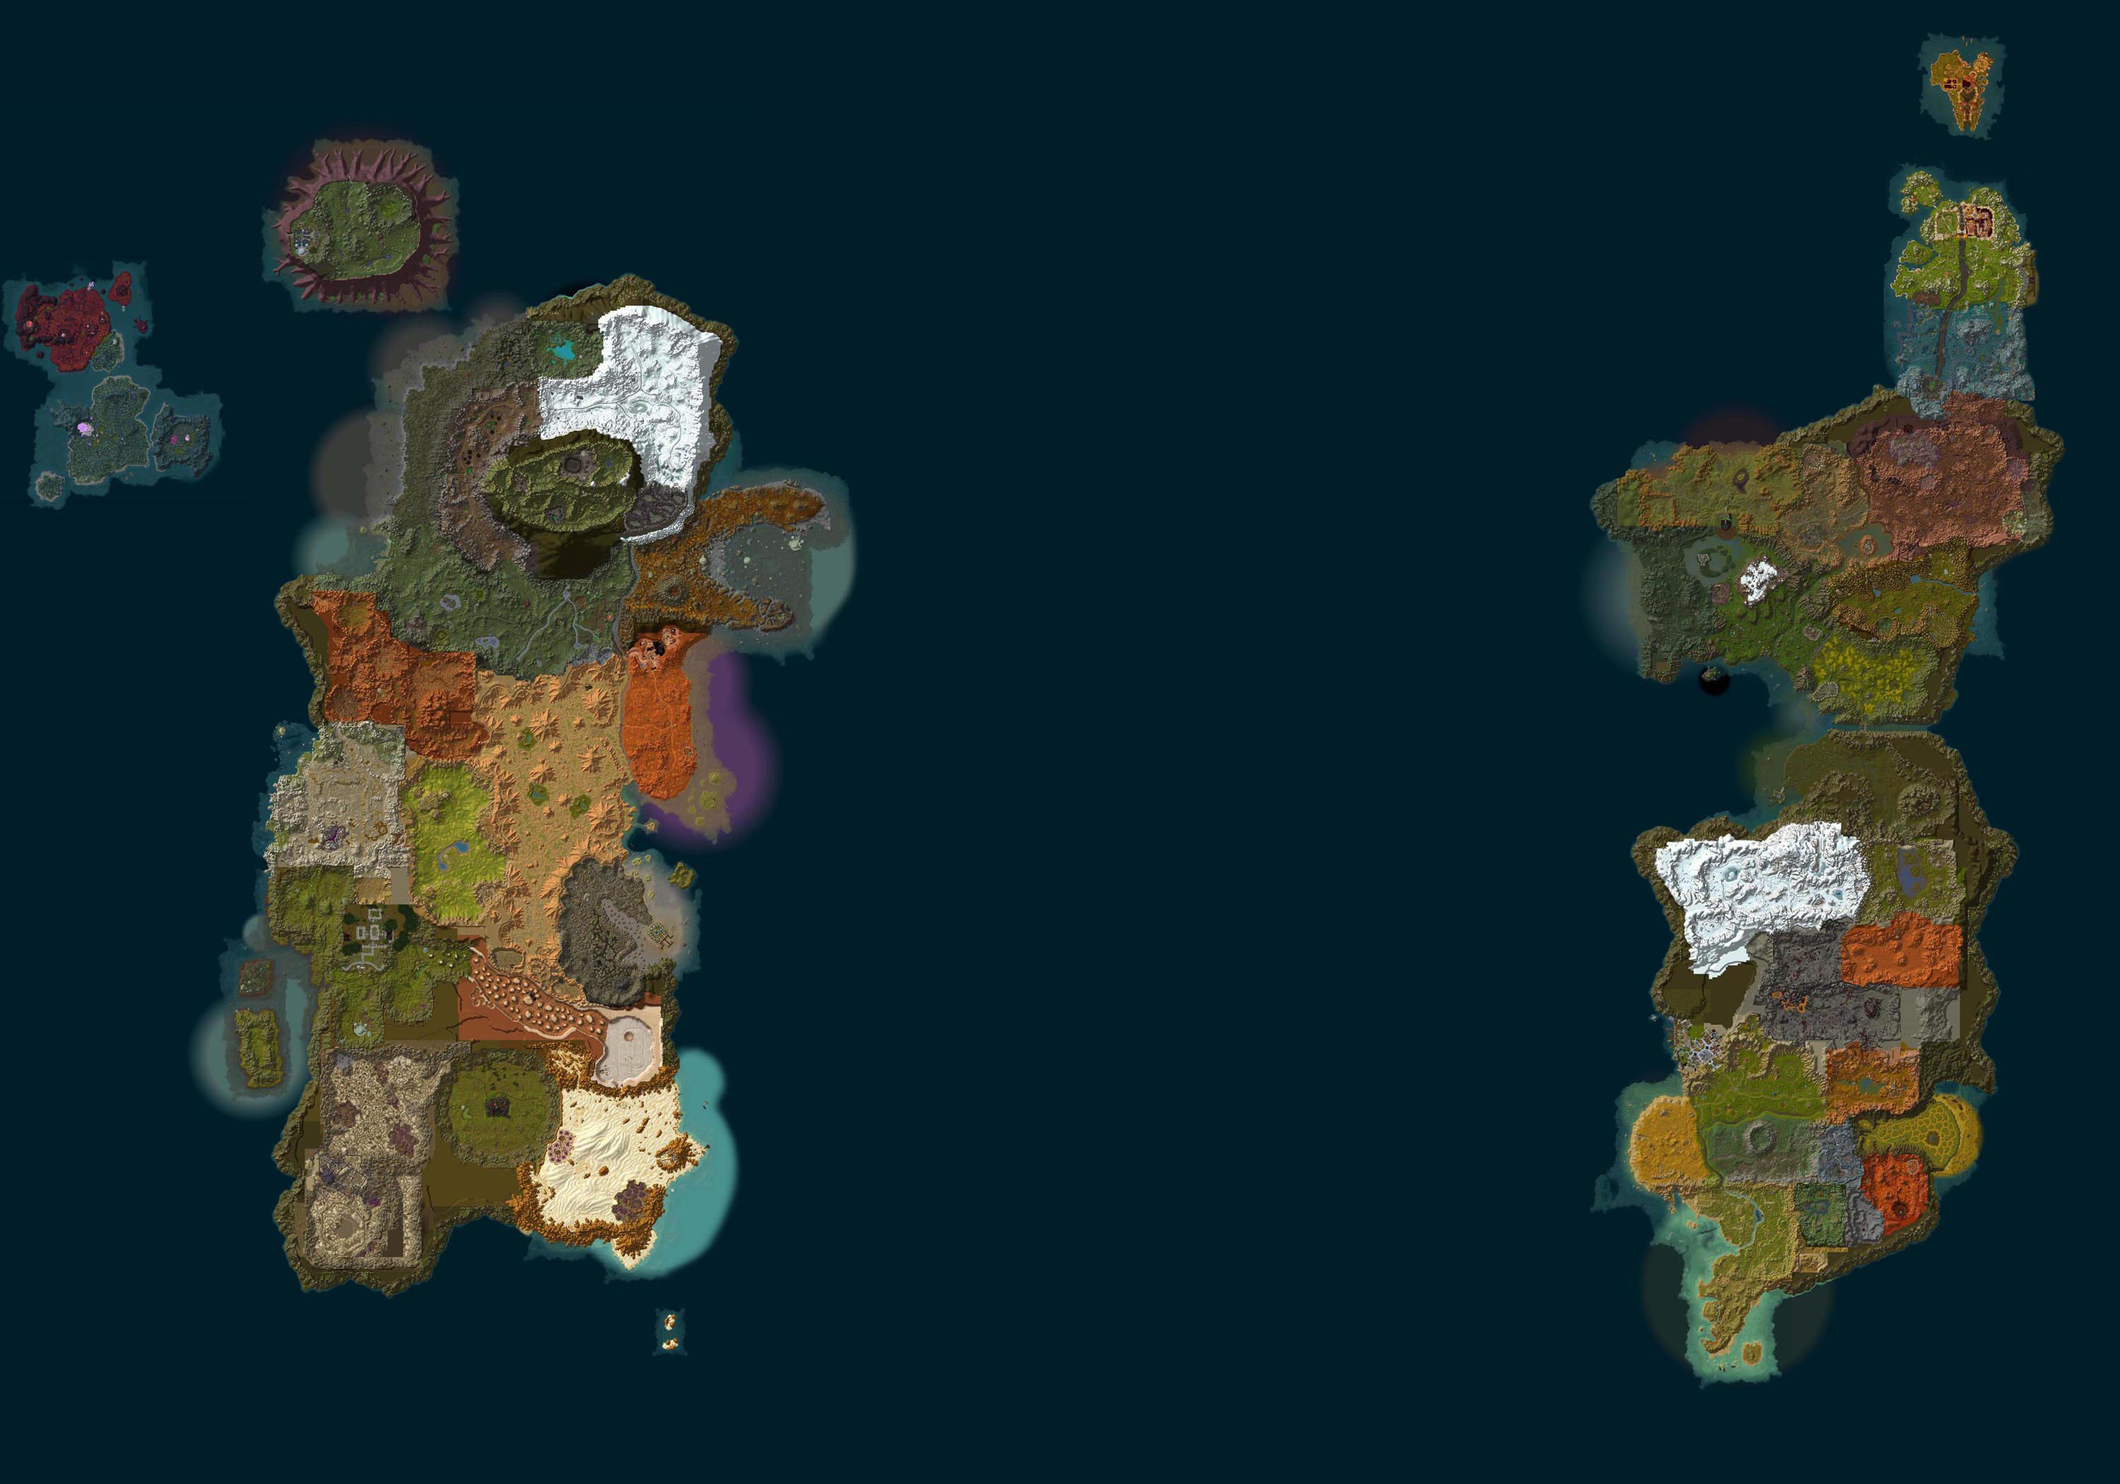
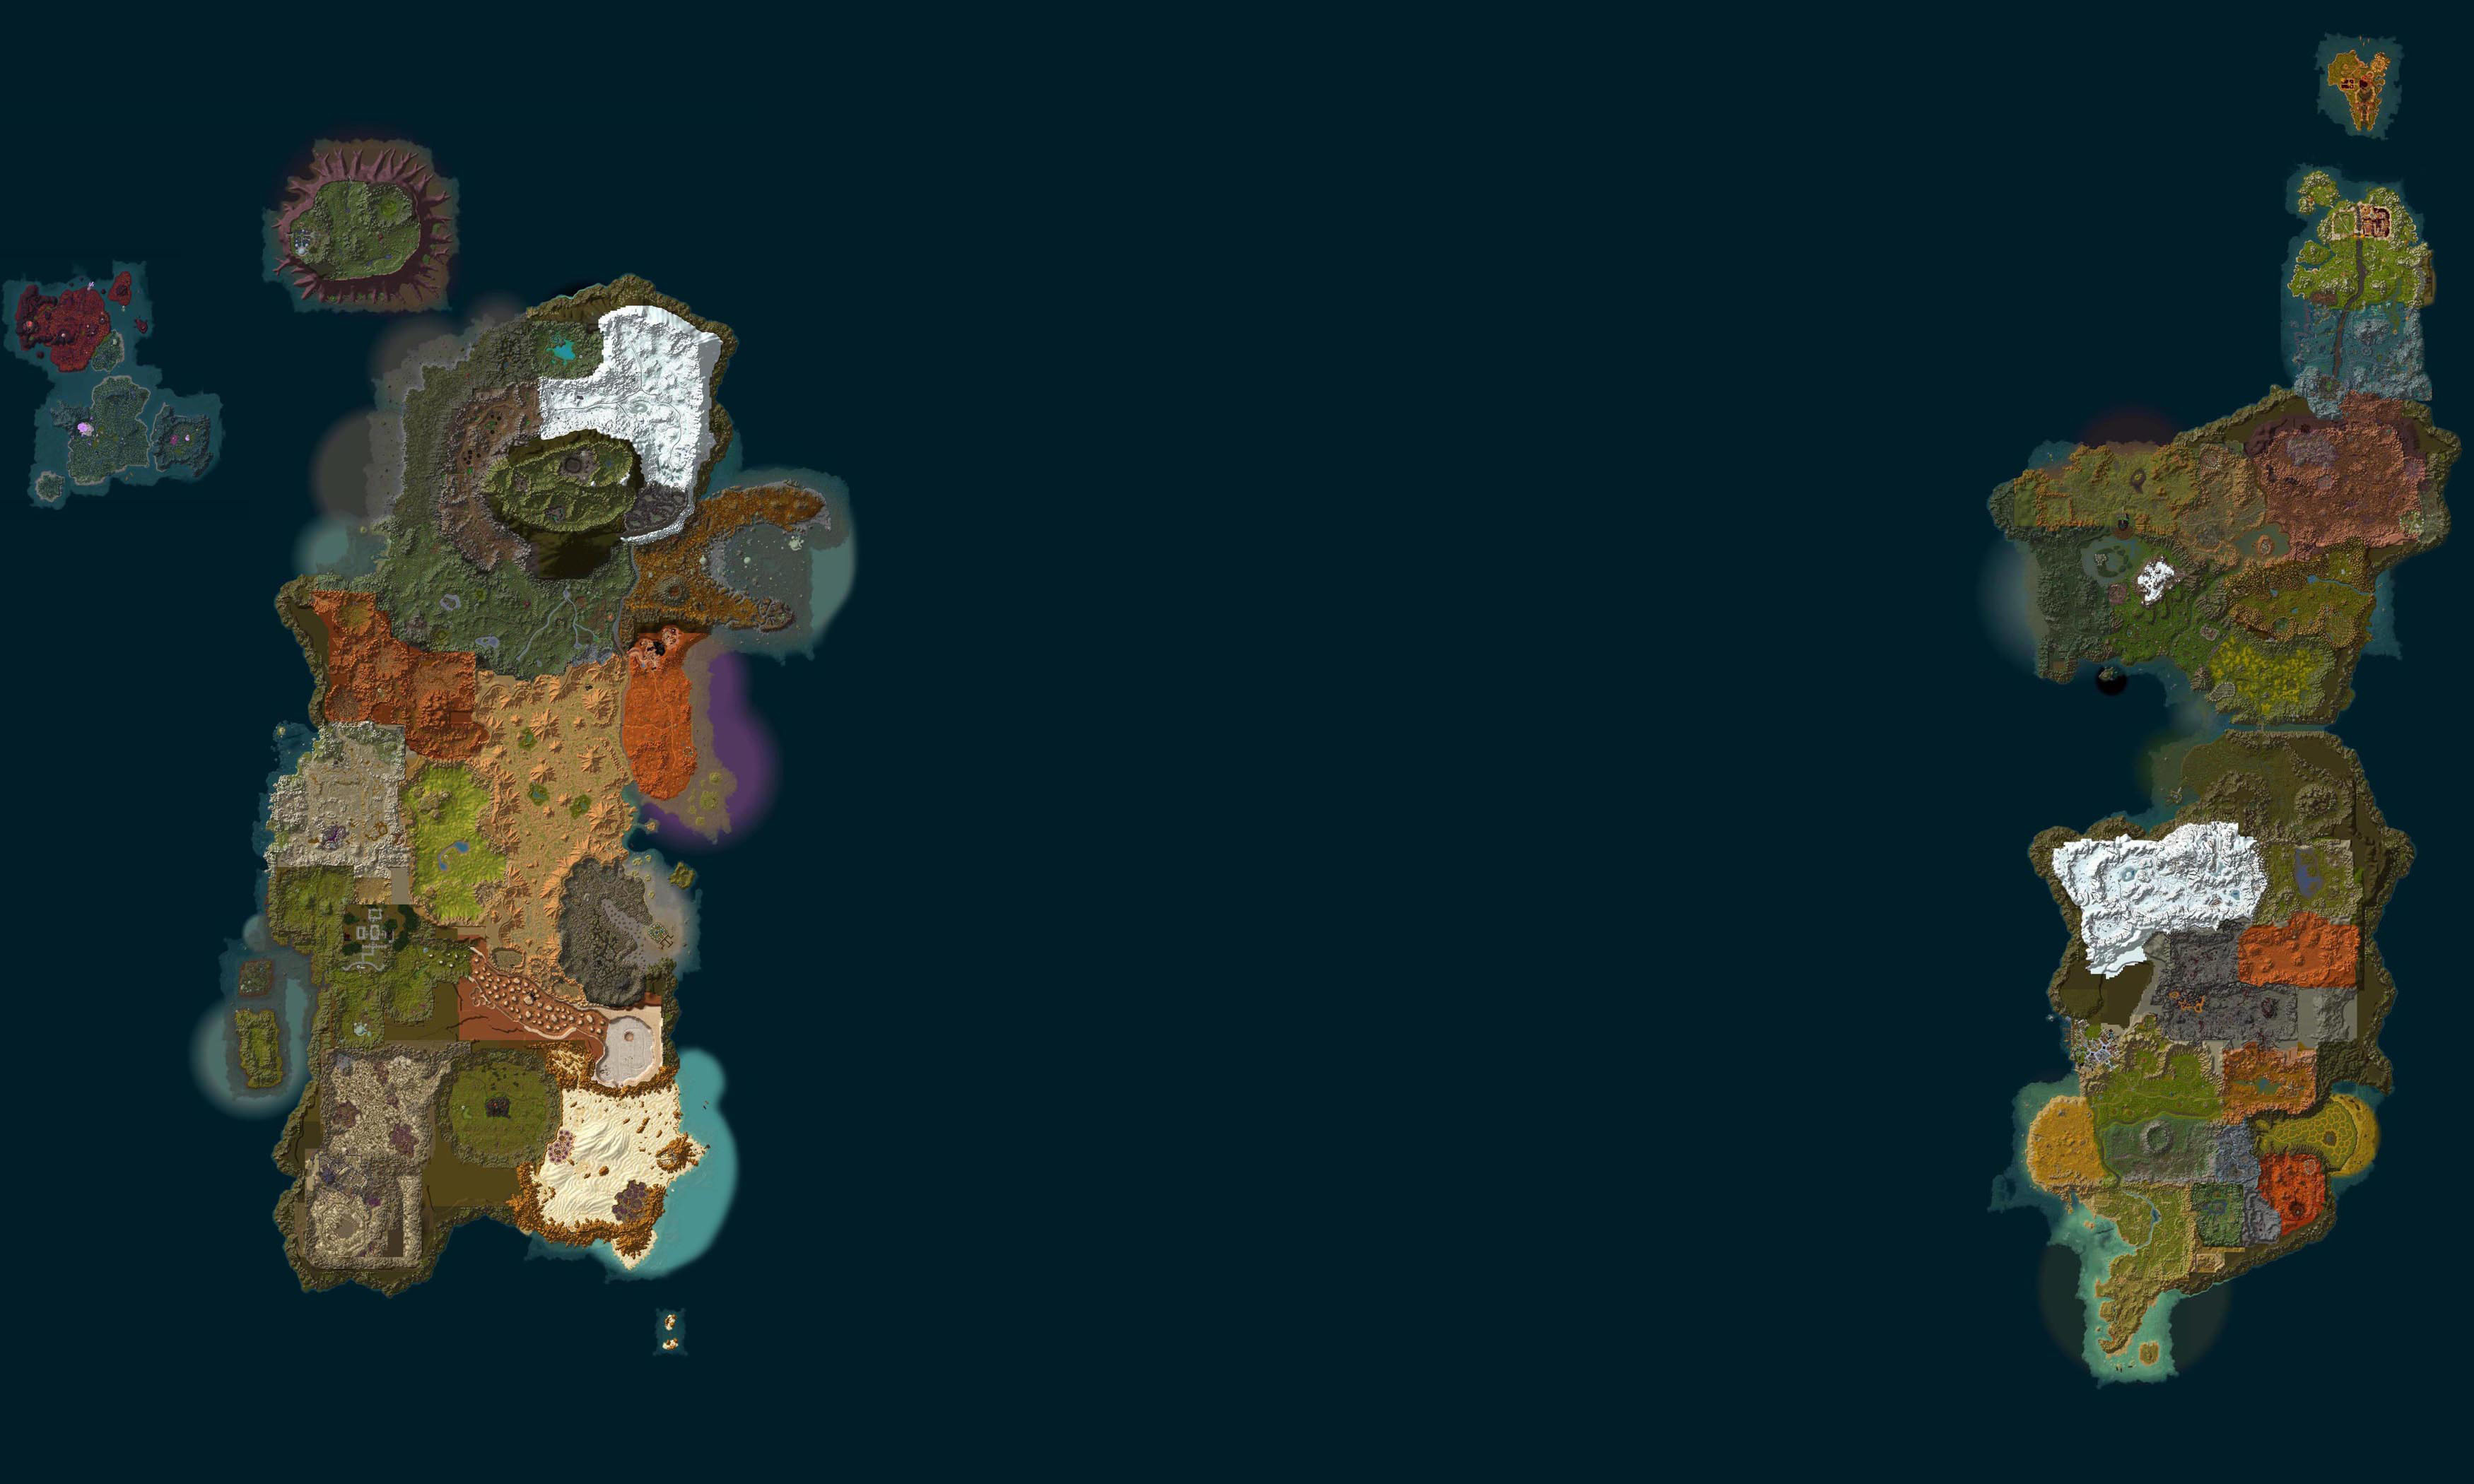
adjusted azeroth image size for later expansions [TODO] Fix polygon zoning

Changed region(s): [[0.0, 0.0929, 0.403, 0.9286], [0.744, 0.0, 1.0, 0.9286]]

diff --git a/css/playermapper.min.css b/css/playermapper.min.css
@@ -3,7 +3,7 @@
 #zone_matrix{position:absolute; border:0px solid red;}
 .zone-bind{stroke-width:1px; stroke:#FFF; fill:transparent; opacity:0;}
 .zone-bind:hover{opacity:0.4;}
-#dk_zone{position:absolute; border:1px dashed transparent; border-radius:10px; top:258px; left:1165px; width:106px; height:85px; background:url("../images/dk_start_zone_zigg.jpg"); background-size:100% 100%; background-repeat:no-repeat;}
+#dk_zone{position:absolute; border:1px dashed transparent; border-radius:10px; top:258px; left:1415px; width:107px; height:85px; background:url("../images/dk_start_zone_zigg.jpg"); background-size:100% 100%; background-repeat:no-repeat;}
 #nav_menu{top:50px; left:50px; width:150px; height:auto; position:fixed; padding:4px 2px 4px 2px; border:1px solid #858585; font-size:11pt; opacity:0.6; background:#181818; font-size:10pt;}
 #nav_title{margin-top:-4px; margin-left:-2px; width:100%; height:25px; line-height:30px; padding:2px;}
 .nav_div{width:100%; height:1px; border:0px solid #494949; border-bottom-width:1px; padding-top:4px; margin-bottom:4px; }

diff --git a/index.php b/index.php
@@ -212,15 +212,16 @@ for ($realm=0; $realm<$n_realms; $realm++)
           $x_pos = ceil($cur_x * 0.031162);
           $y_pos = ceil($cur_y * 0.029882);
           if ($char[$realm]["tbc_zone"]){
-            $char_x = 746 - $y_pos;
+            $char_x = 996 - $y_pos;
             $char_y = 381 - $x_pos;
           }
           else if ($char[$realm]["wrath_zone"]){
-            $char_x = 828 - $y_pos;
+            $char_x = 1078 - $y_pos;
             $char_y = 315 - $x_pos;
           }
           else {
-            $char_x = 820 - $y_pos;
+            //$char_x = 820 - $y_pos;
+            $char_x = 1070 - $y_pos;
             $char_y = 315 - $x_pos;
           }
           $p_map++;
